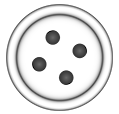
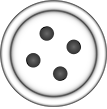
try

diff --git a/practice.html b/practice.html
@@ -4,19 +4,61 @@
 <script src="app.js" defer></script>
 </head>
 <body>
-    <header></header>
+    <header>
+        Header
+    </header>
     <main>
-        <div id="shirtCenter">
-            <div class="butt" id="dark"><img src="imgs/buttonSmall.png" alt=""><p class="hidden">Dark Mode</p></div>
-            <div class="butt" id="contrast"><img src="imgs/buttonSmall.png" alt=""><p class="hidden">High Contrast</p></div>
-            <div class="butt" id="lowCon"><img src="imgs/buttonSmall.png" alt=""><p class="hidden">Low Contrast</p></div>
-            <div class="butt" id="dyslex"><img src="imgs/buttonSmall.png" alt=""><p class="hidden">Dyslexia Friendly</p></div>
-            <div class="butt" id="bigFont"><img src="imgs/buttonSmall.png" alt=""><p class="hidden">Font Larger</p></div>
-            <div class="butt" id=""><img src="imgs/buttonSmall.png" alt=""><p class="hidden"></p></div>
-            <div class="butt" id=""><img src="imgs/buttonSmall.png" alt=""><p class="hidden"></p></div> 
-        </div>
+        <!-- <h1>Themes</h1> -->
+        <!-- <div id="shirtCenter">
+            <button class="butt pos" id="dark"><img src="imgs/buttonSmall.png" alt=""><p >Dark Mode</p></button>
+            <button class="butt pos" id=""><img src="imgs/buttonSmall.png" alt=""><p>Light Mode</p></button>
+            <button class="butt pos" id="contrast"><img src="imgs/buttonSmall.png" alt=""><p>High Contrast</p></button>
+            <button class="butt pos" id="lowCon"><img src="imgs/buttonSmall.png" alt=""><p>Low Contrast</p></button>
+            <button class="butt pos" id="dyslex"><img src="imgs/buttonSmall.png" alt=""><p>Dyslexia Friendly</p></button>
+            <button class="butt pos" id="bigFont"><img src="imgs/buttonSmall.png" alt=""><p>Font Larger</p></button>
+        </div> -->
+        <form action="">
+                <button id="themesButton" aria-label="themes button, see options by clicking">Accessibility Theme</button>
+            <fieldset id="collapsed">
+                <div>
+                     <div>
+                        <img src="imgs/buttonSmall.png" alt="" >
+                        <input type="radio" name="theme" id="light">
+                        <label for="theme">Light</label>
+                    </div>
+                        
+                    <div>
+                            <img id="dark" src="imgs/blackerButtonsmalCopy.png"  alt="" >
+                            <input type="radio" name="theme" id="dark">
+                            <label for="theme">Dark</label>
+                    </div>
+                    <div>
+                            <img id="lowContrast" src="imgs/blackerButtonsmalCopy.png"  alt="" >
+                            <input type="radio" name="theme" id="lowContrast">
+                            <label for="theme">low Contrast</label>
+                    </div>
+                    <div>
+                            
+                            <img id="highContrast"src="imgs/contrastButton.png" alt="" >
+                            <input type="radio" name="theme" id="contrast">
+                            <label for="theme">High Contrast</label>
+                    </div>
+                
+                    <div>
+                            <img src="imgs/buttonSmall.png" alt="" >
+                            <input type="radio" name="theme" id="dyslexia">
+                            <label for="theme" id="Dyslexia">Dyslexia Friendly</label>
+                    </div>
+                    <div>
+                            <img src="imgs/buttonSmall.png" alt="" >
+                            <input type="radio" name="theme" id="glasses">
+                            <label for="theme">Larger Font</label>
+                    </div>
+                </div>
+            </fieldset>
+        </form>
     </main>
-    <footer></footer>
+    <footer>Footer</footer>
 </body>
 
 

diff --git a/styles/styles.css b/styles/styles.css
@@ -1,17 +1,144 @@
-.butt {
-    display:flex;
-    align-items: center;
-    gap: 20px;
-}
+/* 
 .hidden{
     display:none;
 }
 
-.butt > p:hover{
-    display: none;
-}
-.shirtCenter{
+
+#shirtCenter{
     background-color: #F5EAD7 ;
-    width: 80px;
-    border: black 1px solid;
+    width: 100px; 
+    display: grid;
+    justify-items: center;
+    justify-content: center;
+   
 }
+.butt {
+    display: grid;
+    justify-items: center;
+    width:100%;
+   
+}
+.butt p{
+    opacity: 0;
+    transition: opacity 0.3s ease;
+}
+.butt:hover + p {
+    opacity: 1;
+}
+.butt img:hover + p {
+    opacity: 1;
+}
+.pos {
+    position:absolute;
+    
+} */
+
+:root{
+    --forest:  #2E4D2D;
+    --coastal: #5B8C88;
+    --canvas: #F5EAD7;
+    --terracotta: #C46A4B;
+    --charcoal: #2B2B2B;
+    --light-charcoal: #555555;
+    --background: #ffffff; 
+    
+}
+body{
+    background-color: var(--background);
+    color:var(--charcoal);
+}
+form{
+    position:relative;
+    margin-top: 100px;
+    width:150px;
+}
+
+/* makes information a 2 column grid, the direct children are divs containing labels and buttons separately */
+
+/* styles children direct children to look like sides of shirt */
+fieldset > div{
+    display:grid;
+    gap:10px;
+    border-radius: 9px;
+    border:1px black solid;
+    background-color: #F5EAD7;
+    justify-items: left;
+    opacity:0;
+}
+/* makes all children inside inner divs absolute: this served the purpose of overlaying radio buttons onto images of buttons */
+form div div  *{
+    position: absolute;
+}
+
+
+
+
+label{
+    position:relative;
+    /* width:100px; */
+    left:70px;
+    top:9px;
+    /* opacity: 0; */
+    
+}
+/* makes radios the size of button image */
+
+input[type="radio"]{
+    appearance: none;
+    width:54px;
+    height: 54px;
+    outline: 1.5px solid black;
+    border-radius: 50%;
+    
+    
+    
+    
+}
+img{background: var(--radio-color);
+    border-radius: 50%;
+    top:1.5px;
+    left:1.5px;
+}
+#light{
+    --radio-color: rgba(255,255,255,.6);
+    
+}
+#dark{
+    background-color:rgba(5,5,5,.5);
+}
+#lowContrast{
+ --radio-color: rgba(5,5,5,.5);
+}
+
+#highContrast{
+    --radio-color:rgba(20,245,226,1);
+}
+
+
+input[type="radio"]:hover +  label{
+    opacity: 1;
+    cursor:pointer;
+}
+input[type="radio"]:hover{
+    box-shadow: 3px 3px 3px black;
+    cursor:pointer;
+}
+
+form div div{
+    display:grid;
+    width:54px;
+    height:54px;
+    position:relative; 
+    justify-items: center;
+    align-items: center;
+}
+fieldset{
+    border:0;
+}
+
+#themesButton{
+    width:54px;
+    height:54px;
+}
+
+

diff --git a/app.js b/app.js
@@ -1,11 +1,28 @@
-let buttons = document.querySelectorAll('.butt');
+// const buttons = document.querySelectorAll('.butt');
+// toggles hidden class on associated paragraphs for buttons
+// console.log(buttons.length);
+// console.log(buttPara.length);
 
-let buttPara = document.querySelectorAll('.butt > p');
-console.log(buttons.length);
-console.log(buttPara.length);
-buttons.addEventListener('mouseenter',()=>{
-    buttPara.classList.toggle('hidden');
+
+// let containsButtons = document.querySelector("#shirtCenter");
+// containsButtons.addEventListener("click", () => {
+//     let buttons = document.querySelectorAll(".butt");
+//     buttons.forEach((butt) => {
+//         butt.classList.toggle("pos");
+//     });
+
+// });
+
+
+
+
+let themesButton = document.querySelector("#themesButton");
+console.log(themesButton);
+let buttonOptions = document.getElementById("#collapsed");
+// let buttonOptions = document.querySelectorAll("#collapsed > div");
+themesButton.addEventListener("click", function() {
+    
+    buttonOptions.style.opacity ="1";
+    // buttonOptions.style.opacity ="1";
 });
-buttons.addEventListener('mouseleave',()=>{
-    buttPara.classList.toggle('hidden');
-});
+
